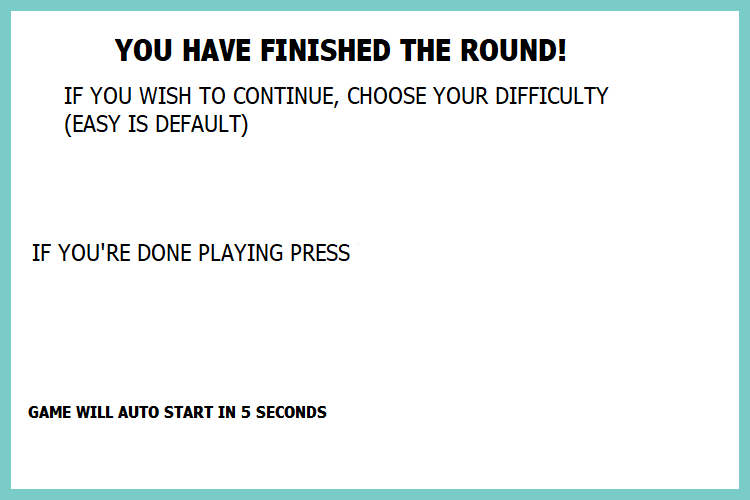
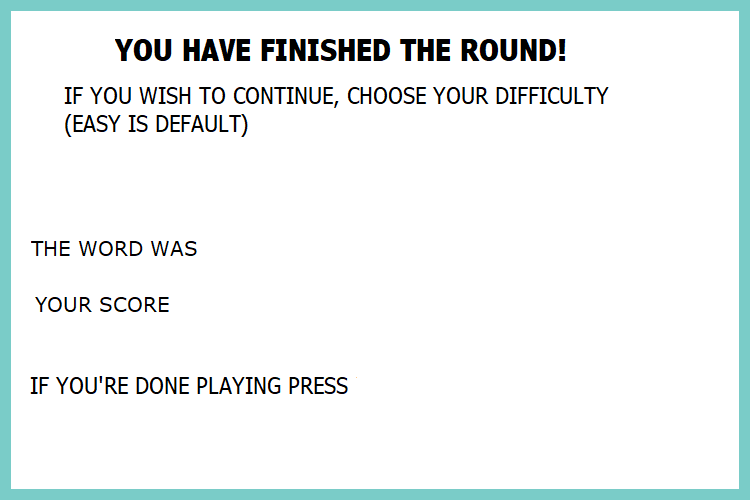
internet status button added

Changed region(s): [[0.0307, 0.75, 0.46, 0.84], [0.0307, 0.48, 0.46, 0.54], [0.0307, 0.57, 0.2453, 0.63]]

diff --git a/core.py b/core.py
@@ -163,7 +163,7 @@ def redraw_game_window():
     if tries != -1:
         tries_left_button.draw(win)
     category_button.draw(win)
-    win.blit(image, (400, 150))
+    win.blit(image, (400, 155))
     welcome_player.draw(win)
 
 
@@ -178,9 +178,9 @@ def end_game():
     def change_pos():
         easy.x = 200
         hard.x = 350
-        easy.y = 180
-        hard.y = 180
-        save_and_exit.y = 300
+        easy.y = 170
+        hard.y = 170
+        save_and_exit.y = 420
 
     def redraw_win():
         change_pos()
@@ -200,6 +200,8 @@ def end_game():
         else:
             close_game()
 
+    display_score = Button((179, 220, 216), 200, 290, 50, 30, str(score))
+    display_word = Button((179, 220, 216), 220, 235, 150, 30, str(secret_word))
     background = pygame.image.load("assets/end_screen.png")
     win.blit(background, (0, 0))
 
@@ -208,7 +210,8 @@ def end_game():
     else:
         char = hangman_images["lose"]
     win.blit(char, (400, 150))
-
+    display_score.draw(win)
+    display_word.draw(win)
     while True:
         for events in pygame.event.get():
             position = pygame.mouse.get_pos()
@@ -290,6 +293,7 @@ def start_menu():
             if hard.is_over(pygame.mouse.get_pos()):
                 if event.type == pygame.MOUSEBUTTONDOWN:
                     difficulty = "hard"
+                    end_game()
                     return
             # hover functionality for those buttons
             if easy.is_over(pygame.mouse.get_pos()):
@@ -336,6 +340,7 @@ correct_letters_guessed = []
 run, start = True, True
 name, difficulty, tries = "", "", 0
 secret_word, category = "", ""
+
 if len(secret_word) > 5:
     score = 100
 else:
@@ -407,4 +412,3 @@ while run:
     print(score)
     end_game()
     initialize_game()
-
